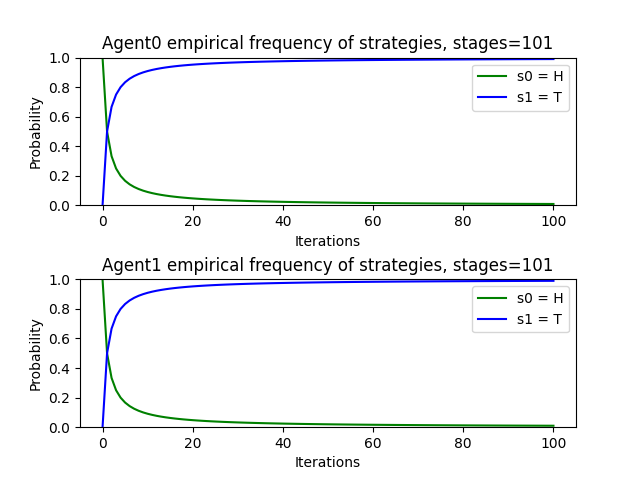
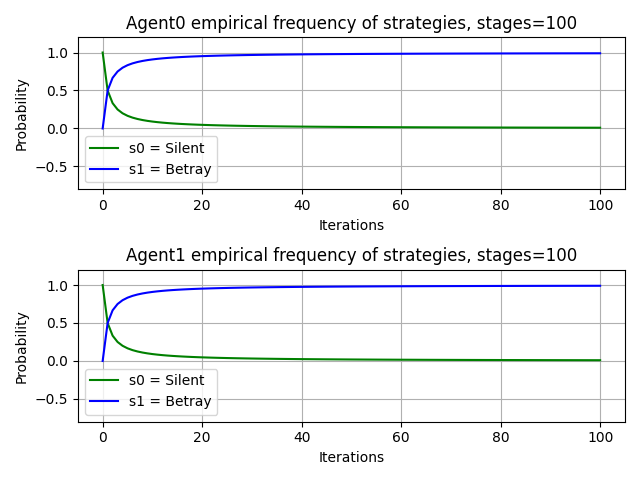
graphs

diff --git a/agents_fictitious_play.py b/agents_fictitious_play.py
@@ -9,7 +9,7 @@
 # keep track of each agents empirical frequency of strategies played
 
 # GAMES:
-# 1. Matching Pennies:  pure competitive, mixed strategies, zero-sum ( + stochastic version with coin toss)
+# 1. Matching Pennies:  pure competitive, 1 mixed Nash, zero-sum ( + stochastic version with coin toss)
 # 2. Prisoner's Dillema: zero-sum, 1 pure Nash
 # 3. Battle-of-sexes: mixed cooperative-competitive, 2 pure Nash, 1 mixed
 # 4. (Left-Right): pure cooperative, 2 pure Nash, 1 mixed
@@ -38,7 +38,10 @@ def compute_expect_utility(actions, belief, payoff_matrix):
     exp_ut = []
     for action in range(len(actions)):
         # (action, H), (action,T)
-        exp_ut.append(payoff_matrix[action][0]*belief[0] + payoff_matrix[action][1]*belief[1])
+        sum = 0
+        for opponnent_action in range(len(actions)):
+            sum += payoff_matrix[action][opponnent_action]*belief[opponnent_action]
+        exp_ut.append(sum)
     return best_response(actions, exp_ut)
     
 def update_beliefs(actions, action_count):
@@ -75,12 +78,14 @@ INITIALIZATION OF GAMES
         -> extra : Rock-paper-Scissor: general-sum
 """
 def matching_pennies_init(advanced=False):
-    actions = {0: "H", 1: "T"}
+    
     # Advanced mode is Rock-Papers-Scissors
     if advanced:
+        actions = {0: "R", 1: "P", 2: "S"}
         payoff_matrix_agent1 = np.array([[0, -1, 1], [1, 0, -1], [-1, 1, 0]])
         payoff_matrix_agent2 = np.array([[0, 1, -1], [-1, 0, 1], [-1, 1, 0]])
-    else:   
+    else:
+        actions = {0: "H", 1: "T"}
         payoff_matrix_agent1 = np.array([[1, -1], [-1, 1]])
         payoff_matrix_agent2 = np.array([[-1, 1], [1, -1]])
     payoff_matrices = [payoff_matrix_agent1, payoff_matrix_agent2]
@@ -90,16 +95,36 @@ def matching_pennies_init(advanced=False):
         action_count = [[0, 1, 0], [0, 1, 0]]
     else:
         action_count = [[0,1], [0,1]]
-
+    #action_count = [[1.5, 2], [2, 1.5]]
+    
     # initialise beliefs with mixed strategy of each agents
     # each row is the mixed strategy/ probability of all actions of the agent
     # empirical_distribution
     # P(a) = w(a)/SUM(w(a')), probability of opponent playing action a and a' all actions (includiing a)
-    beliefs = np.array(([action_count[1][0]/sum(action_count[1]), action_count[1][1]/sum(action_count[1])], [action_count[0][0]/sum(action_count[0]), action_count[0][1]/sum(action_count[0])]))
-    #beliefs = np.array(([1.5, 2], [2, 1.5]))
+    belief1 = []
+    belief2  =[]
+    for action in range(len(actions)):
+        belief1.append(action_count[1][action]/sum(action_count[1]))
+        belief2.append(action_count[0][action]/sum(action_count[0]))
+    beliefs = np.array((belief1, belief2))
+    print(beliefs)
+    
 
     return actions, payoff_matrices, action_count, beliefs
 
+'''
+#################################
+#    2. Prisoners Dillema       # 
+#################################
+            S         B
+        ###################
+    S   # (-1, -1)  (-3, 0)#
+    B   # (0, -3)  (-2, -2)#
+        ###################
+
+        1 pure Nash: 
+            Betray-Betray
+'''
 def prisoners_dillema_init():
     actions = {0: "Silent", 1: "Betray"}
     payoff_matrix_agent1 = np.array([[-1, -3], [0, -2]])
@@ -107,30 +132,61 @@ def prisoners_dillema_init():
     payoff_matrices = [payoff_matrix_agent1, payoff_matrix_agent2]
     # count of H and T played by each agent
     # for state 0 lets assume both have played Tails
-    action_count = [[0,1], [0,1]]
+    action_count = [[1,0], [1,0]]
 
     
     beliefs = np.array(([action_count[1][0]/sum(action_count[1]), action_count[1][1]/sum(action_count[1])], [action_count[0][0]/sum(action_count[0]), action_count[0][1]/sum(action_count[0])]))
 
     return actions, payoff_matrices, action_count, beliefs
 
+'''
+#################################
+#    3. Battle of Sexes        # 
+#################################
+            O         M
+        ###################
+    O   # (3, 2)  (0, 0)#
+    M   # (0, 0)  (2, 3)#
+        ###################
+
+        2 pure Nash: 
+            -> Opera-Opera
+            -> Movies-Movies
+        1 mixed Nash:
+            -> Opera (3/5) - Opera (2/5)
+'''
 def battle_of_sexes_init():
     # actions
-    actions = {0: "Opera", 1: "Football"}
+    actions = {0: "Opera", 1: "Movies"}
     # reward
-    payoff_matrix_agent1 = np.array([[3, 2], [0, 2]])
+    payoff_matrix_agent1 = np.array([[3, 0], [0, 2]])
     payoff_matrix_agent2 = np.array([[2, 0], [0, 3]])
     payoff_matrices = [payoff_matrix_agent1, payoff_matrix_agent2]
     # count of H and T played by each agent
     # for state 0 lets assume both have played Tails
-    action_count = [[0,1], [0,1]]
+    action_count = [[0,1], [1,0]]
 
     beliefs = np.array(([action_count[1][0]/sum(action_count[1]), action_count[1][1]/sum(action_count[1])], [action_count[0][0]/sum(action_count[0]), action_count[0][1]/sum(action_count[0])]))
 
     return actions, payoff_matrices, action_count, beliefs
 
-def main(game):
-    print(game)
+def left_right():
+    # actions
+    actions = {0: "L", 1: "R"}
+    # reward
+    payoff_matrix_agent1 = np.array([[1 , 0], [0, 1]])
+    payoff_matrix_agent2 = np.array([[1 , 0], [0, 1]])
+    payoff_matrices = [payoff_matrix_agent1, payoff_matrix_agent2]
+    # count of H and T played by each agent
+    # for state 0 lets assume both have played Tails
+    action_count = [[1,0], [0.5, 0.5]]
+
+    beliefs = np.array(([action_count[1][0]/sum(action_count[1]), action_count[1][1]/sum(action_count[1])], [action_count[0][0]/sum(action_count[0]), action_count[0][1]/sum(action_count[0])]))
+
+    return actions, payoff_matrices, action_count, beliefs
+
+def main(game, advanced):
+    print(game, advanced)
     game = int(game)
     if game == 2:
         actions, payoff_matrices, action_count, beliefs = prisoners_dillema_init()
@@ -138,8 +194,11 @@ def main(game):
     elif game == 3:
         actions, payoff_matrices, action_count, beliefs = battle_of_sexes_init()
         print('PLAYING BATTLE OF SEXES')
+    elif game == 4:
+        actions, payoff_matrices, action_count, beliefs = left_right()
+        print('PLAYING LEFT-RIGHT')
     else:
-        actions, payoff_matrices, action_count, beliefs = matching_pennies_init()
+        actions, payoff_matrices, action_count, beliefs = matching_pennies_init(advanced)
         print('PLAYING MATCHING PENNIES')
 
 
@@ -185,15 +244,28 @@ def main(game):
             subplot.plot(list(range(0,len(probs))), action_probs, linewidth=1.5, label=f"s{action} = {actions[action]}", color=colors[action])
         subplot.legend()
 
-        subplot.set_ylim(0, 1)
+    plt.tight_layout()
     plt.show()
 
 if __name__ == '__main__':
     parser = argparse.ArgumentParser()
     parser.add_argument("--game", help="choose which game to play. Range [1-3]")
+    parser.add_argument("--adv", help="If game 1 chosen, seet this to 2 for rock-papers-scissors. Default macthing pennies")
     args = parser.parse_args()
     game = args.game
+    advanced = args.adv
     # check if game option given, default matching pennies
+    print(game, advanced)
     if game is None:
         game = 1
-    main(game)
+    if advanced is not None:
+        print('ok')
+        advanced = int(advanced)
+        if advanced == 2:
+            print('yy')
+            advanced = True
+        else:
+            advanced = False
+    else:
+        advanced  = False
+    main(game, advanced)
